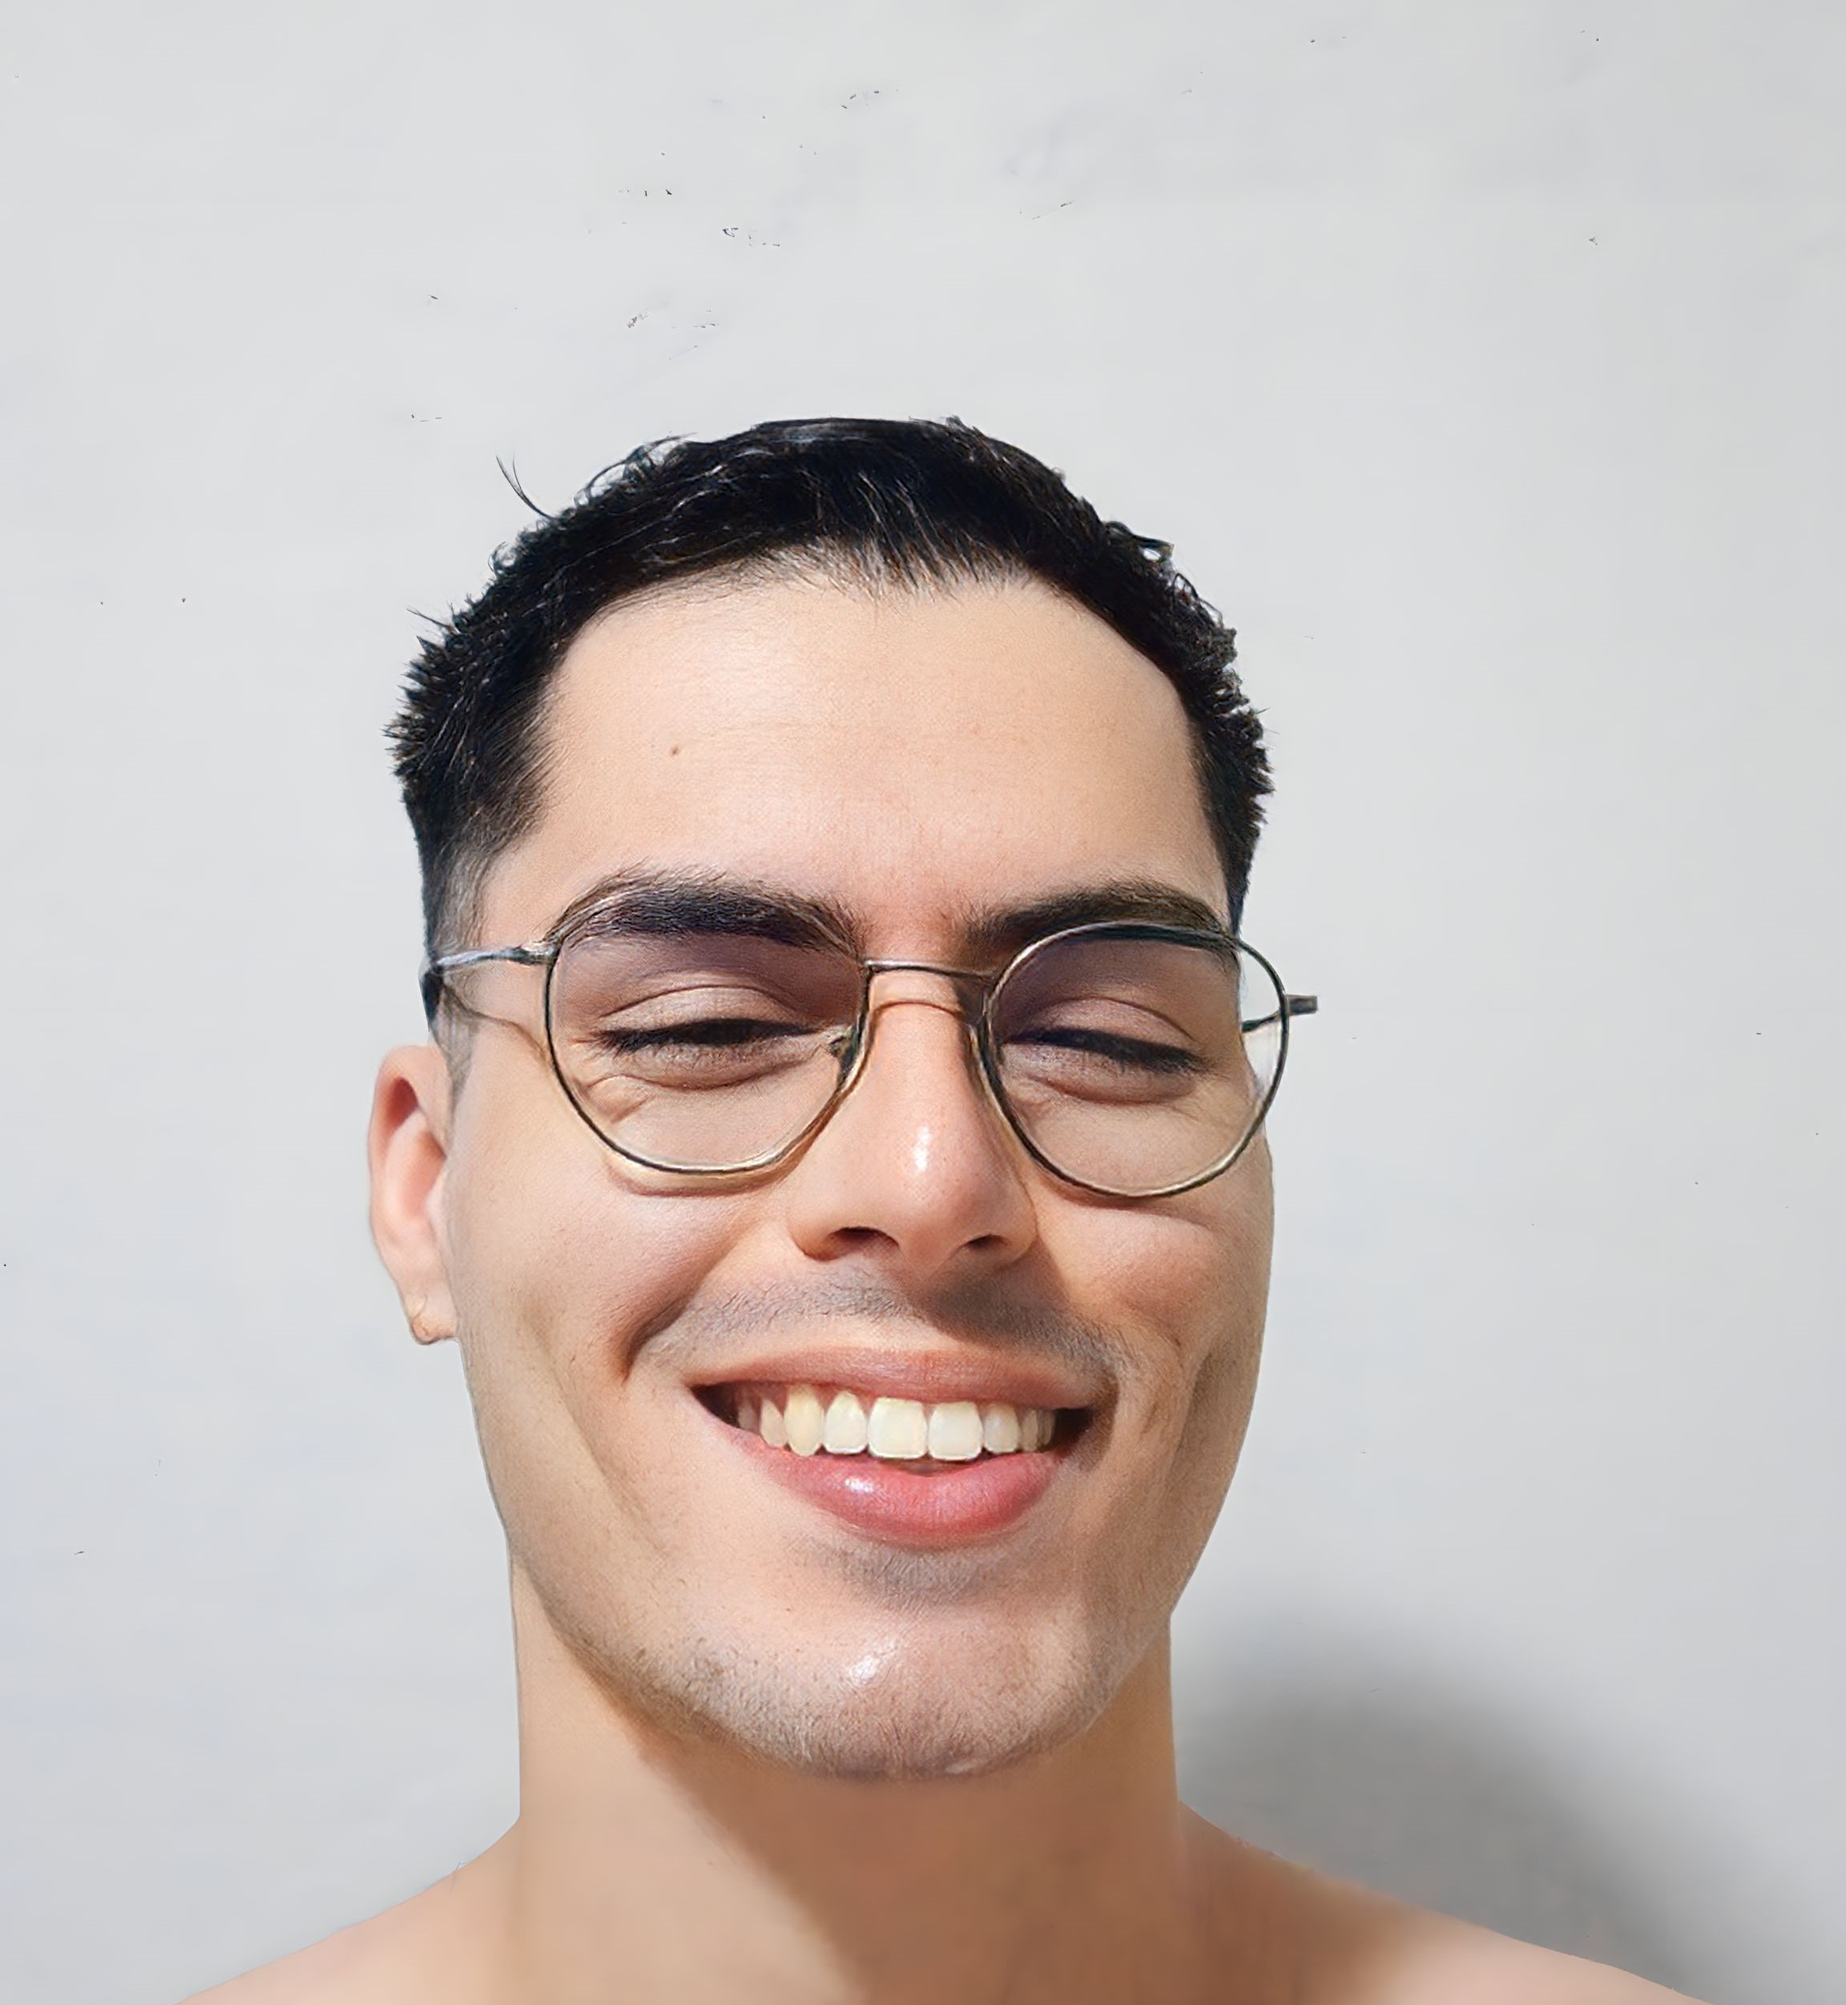
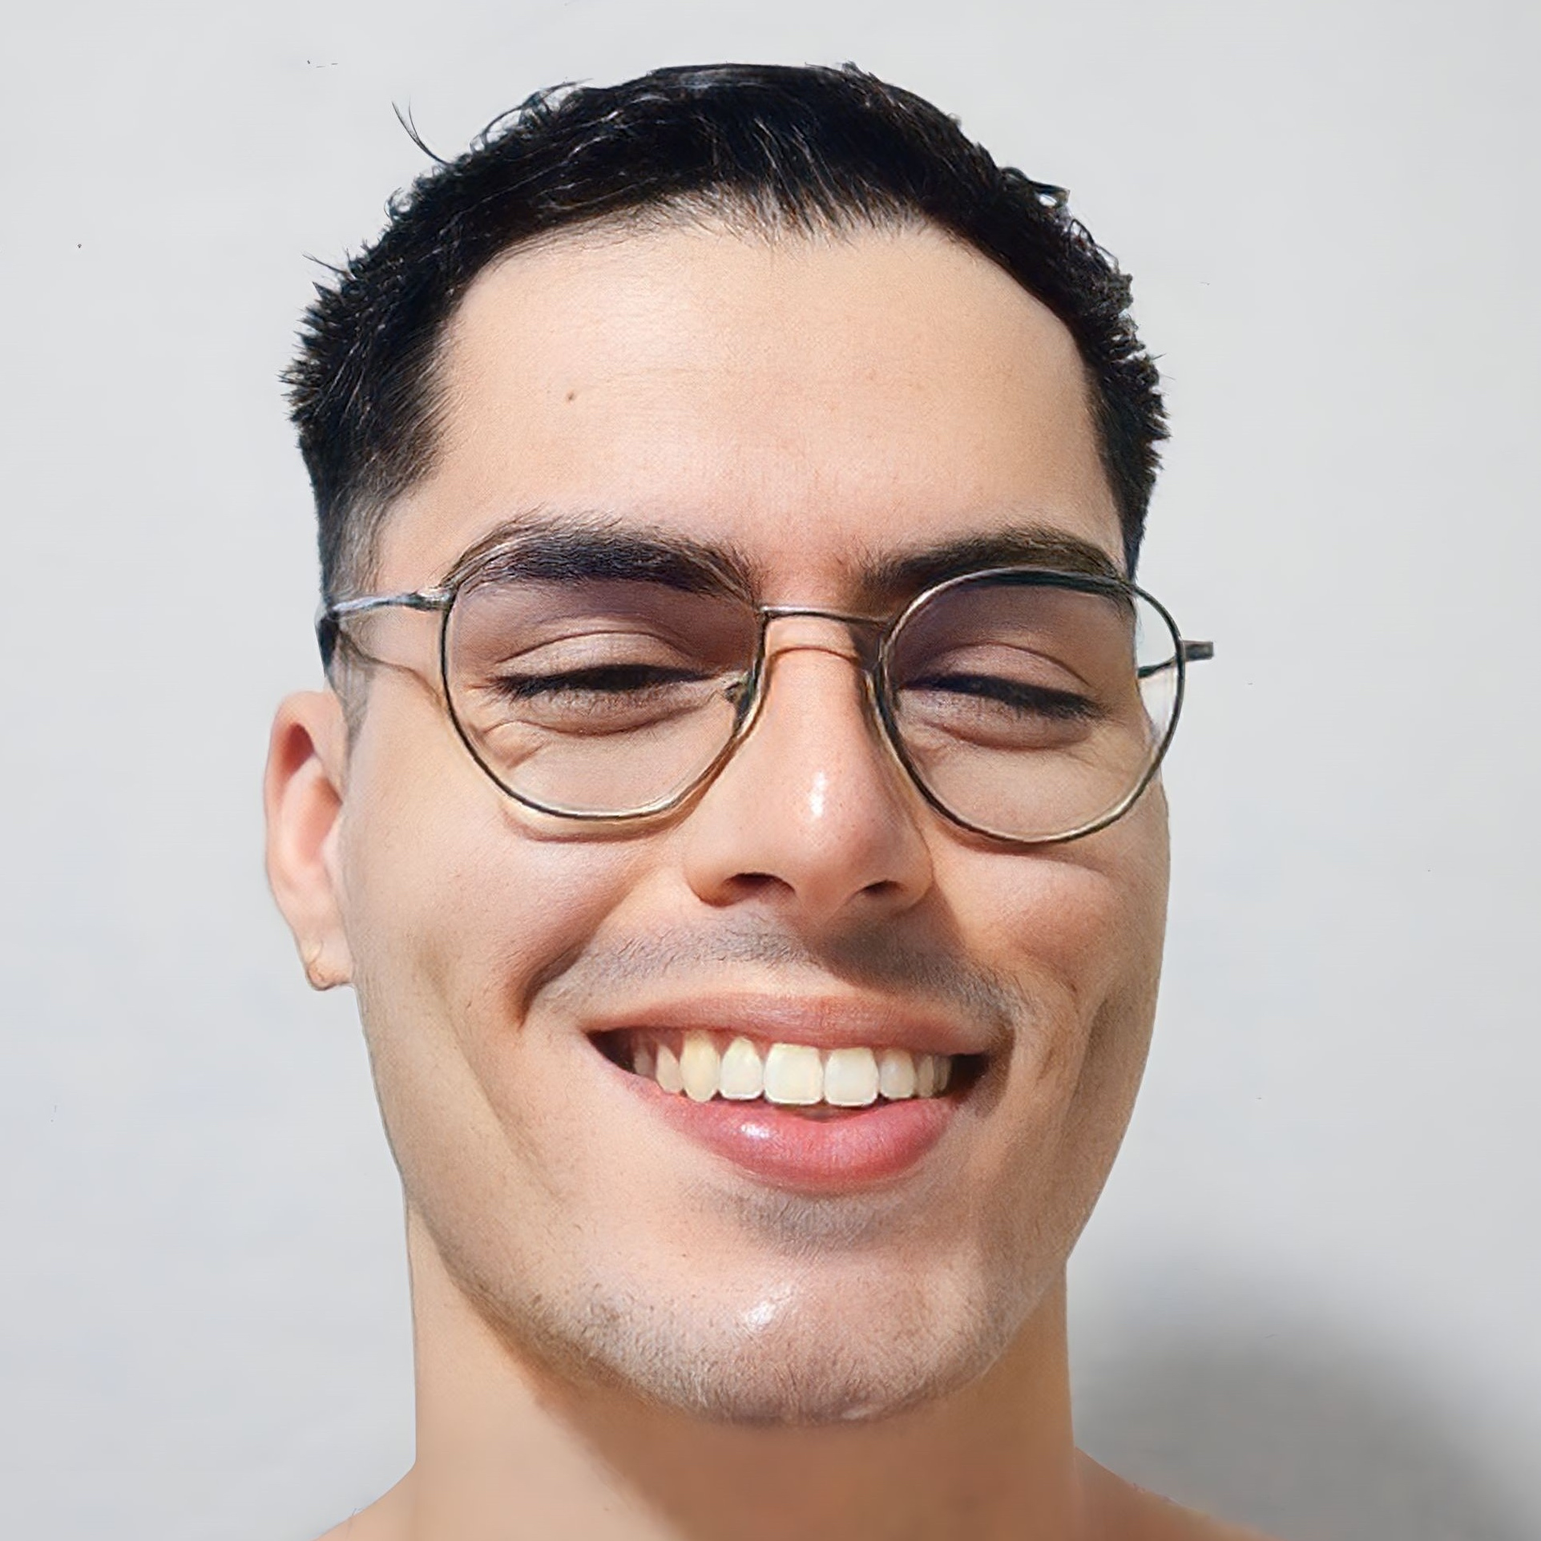
Deploying to gh-pages from @ ayty-org/ayty-org.github.io@0245be4a71f3a1c07bfe9383680a87fac82d9029 🚀

diff --git a/listaequipe.html b/listaequipe.html
@@ -722,7 +722,7 @@
                     </tr>
                 
                     <tr>
-                        <td><a href="equipe/img/david%20Goncalves%20Maia.png" target="_blank"><img src="equipe/img/david%20Goncalves%20Maia.png" alt="David Gonçalves Maia" style="width:40px;height:40px;"></a></td>
+                        <td><a href="equipe/img/david_maia.jpg" target="_blank"><img src="equipe/img/david_maia.jpg" alt="David Gonçalves Maia" style="width:40px;height:40px;"></a></td>
                         <td>David Gonçalves Maia</td>
                         <td><a href="" target="_blank">Website</a></td>
                         <td><a href="" target="_blank">Lattes</a></td>

diff --git a/equipe/index.html b/equipe/index.html
@@ -1140,7 +1140,7 @@
 
     <!-- Fallback to the original file -->
     
-    <img src="/equipe/img/david%20Goncalves%20Maia.png" class="card-img-top .img-fluid rounded-circle profile_pic" width="auto" height="auto" alt="member thumbnail" onerror="this.onerror=null; $('.responsive-img-srcset').remove();">
+    <img src="/equipe/img/david_maia.jpg" class="card-img-top .img-fluid rounded-circle profile_pic" width="auto" height="auto" alt="member thumbnail" onerror="this.onerror=null; $('.responsive-img-srcset').remove();">
     
 
   <!-- </picture> -->

diff --git a/projects/esig/index.html b/projects/esig/index.html
@@ -408,7 +408,7 @@
 
     <!-- Fallback to the original file -->
     
-    <img src="/equipe/img/david%20Goncalves%20Maia.png" class="card-img-top .img-fluid rounded-circle profile_pic" width="auto" height="auto" alt="member thumbnail" onerror="this.onerror=null; $('.responsive-img-srcset').remove();">
+    <img src="/equipe/img/david_maia.jpg" class="card-img-top .img-fluid rounded-circle profile_pic" width="auto" height="auto" alt="member thumbnail" onerror="this.onerror=null; $('.responsive-img-srcset').remove();">
     
 
   <!-- </picture> -->

diff --git a/equipe/david_gonçalves_maia/index.html b/equipe/david_gonçalves_maia/index.html
@@ -133,7 +133,7 @@
 
     <!-- Fallback to the original file -->
     
-    <img src="/equipe/img/david%20Goncalves%20Maia.png" class="img-fluid   z-depth-1 rounded-circle" width="auto" height="auto" onerror="this.onerror=null; $('.responsive-img-srcset').remove();">
+    <img src="/equipe/img/david_maia.jpg" class="img-fluid   z-depth-1 rounded-circle" width="auto" height="auto" onerror="this.onerror=null; $('.responsive-img-srcset').remove();">
     
 
   <!-- </picture> -->
